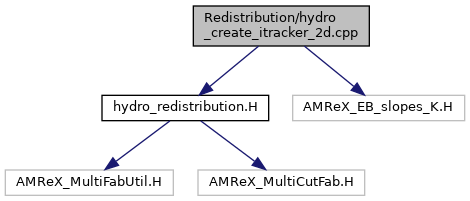
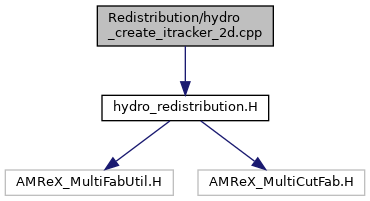
Deploying to main from  @ f019bb0612b42fc84fd91fb7ba060f02b65f7b6e 🚀

diff --git a/amrex-hydro/Doxygen/html/hydro__create__itracker__2d_8cpp.html b/amrex-hydro/Doxygen/html/hydro__create__itracker__2d_8cpp.html
@@ -97,15 +97,13 @@ $(document).ready(function(){initNavTree('hydro__create__itracker__2d_8cpp.html'
 </div><!--header-->
 <div class="contents">
 <div class="textblock"><code>#include &lt;<a class="el" href="hydro__redistribution_8H_source.html">hydro_redistribution.H</a>&gt;</code><br />
-<code>#include &lt;AMReX_EB_slopes_K.H&gt;</code><br />
 </div><div class="textblock"><div class="dynheader">
 Include dependency graph for hydro_create_itracker_2d.cpp:</div>
 <div class="dyncontent">
 <div class="center"><img src="hydro__create__itracker__2d_8cpp__incl.png" border="0" usemap="#Redistribution_2hydro__create__itracker__2d_8cpp" alt=""/></div>
 <map name="Redistribution_2hydro__create__itracker__2d_8cpp" id="Redistribution_2hydro__create__itracker__2d_8cpp">
-<area shape="rect" title=" " alt="" coords="193,5,369,47"/>
+<area shape="rect" title=" " alt="" coords="97,5,273,47"/>
 <area shape="rect" href="hydro__redistribution_8H.html" title=" " alt="" coords="102,95,269,121"/>
-<area shape="rect" title=" " alt="" coords="293,95,465,121"/>
 <area shape="rect" title=" " alt="" coords="5,169,173,196"/>
 <area shape="rect" title=" " alt="" coords="198,169,365,196"/>
 </map>
